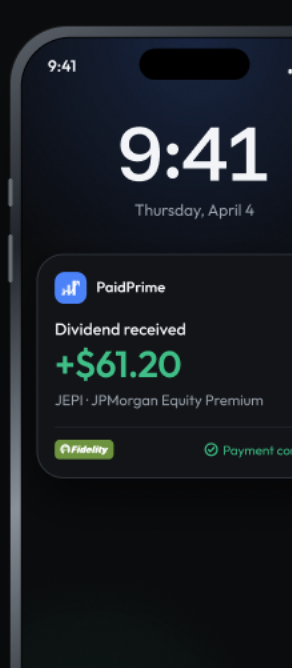
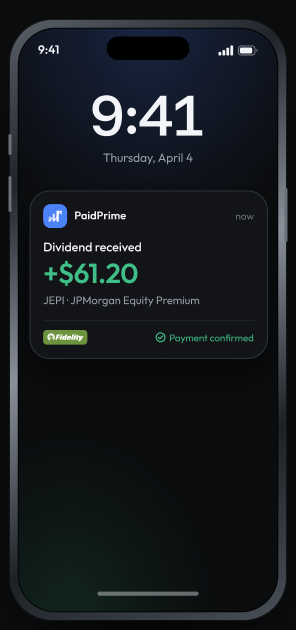
feat: add ProductSection to homepage; update NotificationTemplatesSection styles and image assets for improved layout and responsiveness

Changed region(s): [[0.0, 0.0302, 1.0, 1.0], [0.4623, 0.3016, 0.863, 0.3619], [0.1233, 0.573, 0.1541, 0.6937]]

diff --git a/components/marketing/product-section.tsx b/components/marketing/product-section.tsx
@@ -1,0 +1,130 @@
+import { Reveal } from "@/components/marketing/reveal";
+
+const FEATURES = [
+  {
+    label: "Portfolio Performance",
+    icon: "/marketing/product/icon-portfolio-performance.svg",
+    active: true,
+  },
+  {
+    label: "Passive Income Tracking",
+    icon: "/marketing/product/icon-passive-income.svg",
+  },
+  {
+    label: "Portfolio Allocation",
+    icon: "/marketing/product/icon-portfolio-allocation.svg",
+  },
+  {
+    label: "Sector Allocation",
+    icon: "/marketing/product/icon-sector-allocation.svg",
+  },
+  {
+    label: "Financial Freedom Goals",
+    icon: "/marketing/product/icon-freedom-goals.svg",
+  },
+  {
+    label: "Smart Watchlists",
+    icon: "/marketing/product/icon-watchlists.svg",
+  },
+  {
+    label: "AI Advisor",
+    icon: "/marketing/product/icon-ai-advisor.svg",
+  },
+  {
+    label: "Dividend Calendar",
+    icon: "/marketing/product/icon-calendar.svg",
+  },
+  {
+    label: "Real-Time Alerts",
+    icon: "/marketing/product/icon-alerts.svg",
+  },
+] as const;
+
+/**
+ * Figma Homepage section 1:752 — Product / investment dashboard (1440 × 1038.54).
+ * Shell matches header/templates: 1440 → px-60 → 1320 → px-12 (content at 108).
+ * Desktop ≥1200 = Figma; tablet/mobile = judgment.
+ */
+export function ProductSection() {
+  return (
+    <section
+      id="product"
+      className="relative border-b border-[#22262c] bg-[#0b0c0e]"
+      aria-labelledby="product-heading"
+    >
+      <div className="mx-auto box-border flex w-full max-w-[1440px] flex-col px-4 py-14 sm:px-8 sm:py-16 min-[1200px]:px-[60px] min-[1200px]:py-20">
+        <div className="mx-auto flex w-full max-w-[1320px] flex-col gap-8 min-[1200px]:gap-10 min-[1200px]:px-12">
+          <Reveal className="flex w-full max-w-[720px] flex-col items-start gap-4 min-[1200px]:gap-[15.1px]">
+            <div className="inline-flex items-center gap-2.5 rounded-full border border-[#2e343b] bg-[#16191d] px-[15.8px] pt-[7.2px] pb-[7.8px] text-[13px] font-medium leading-[21.45px] tracking-[2.08px] text-[#4c82f7] uppercase">
+              <span className="size-1.5 shrink-0 rounded-full bg-[#4c82f7]" aria-hidden />
+              Product
+            </div>
+
+            <h2
+              id="product-heading"
+              className="pp-display m-0 w-full text-[clamp(30px,6vw,60.5px)] font-semibold leading-[1.08] tracking-[-0.04em] text-[#f2f4f7] min-[1200px]:text-[60.5px] min-[1200px]:leading-[63.5px] min-[1200px]:tracking-[-2.298px]"
+            >
+              Your complete investment{" "}
+              <br className="hidden min-[1200px]:block" />
+              dashboard
+            </h2>
+
+            <p className="m-0 max-w-[640px] text-[17px] leading-[1.55] font-normal text-[#99a1ac] sm:text-[20px] min-[1200px]:text-[24px] min-[1200px]:leading-[38px]">
+              Every number you need to track passive income, from portfolio value to your
+              next confirmed payment.
+            </p>
+          </Reveal>
+
+          {/* Dashboard + feature list share one row; list stretches to dashboard height */}
+          <Reveal
+            delayMs={80}
+            className="flex w-full flex-col gap-6 min-[1200px]:flex-row min-[1200px]:items-stretch min-[1200px]:justify-between min-[1200px]:gap-6"
+          >
+            <div className="relative w-full min-w-0 overflow-hidden rounded-[18px] border border-[#2e343b] bg-[#121417] shadow-[0px_40px_90px_-30px_rgba(0,0,0,0.75)] min-[1200px]:w-[841px] min-[1200px]:shrink-0">
+              {/* eslint-disable-next-line @next/next/no-img-element */}
+              <img
+                src="/marketing/product/dashboard.png"
+                alt="PaidPrime investment dashboard showing portfolio value, income, and performance charts"
+                width={842}
+                height={653}
+                className="block h-auto w-full select-none"
+                draggable={false}
+              />
+            </div>
+
+            <ul className="m-0 flex w-full list-none flex-col overflow-hidden rounded-[18px] border border-[#2e343b] p-0 min-[1200px]:w-[358px] min-[1200px]:shrink-0 min-[1200px]:self-stretch">
+              {FEATURES.map((feature, index) => (
+                <li
+                  key={feature.label}
+                  className={`flex min-h-0 flex-1 items-center gap-3 bg-[#121417] px-4 py-3.5 min-[1200px]:py-0 ${
+                    index < FEATURES.length - 1 ? "border-b border-[#22262c]" : ""
+                  }`}
+                >
+                  <div
+                    className={`flex size-9 shrink-0 items-center justify-center rounded-[10px] border ${
+                      feature.active
+                        ? "border-[rgba(76,130,247,0.45)] bg-[#16233d]"
+                        : "border-[#2e343b] bg-[#16191d]"
+                    }`}
+                  >
+                    {/* eslint-disable-next-line @next/next/no-img-element */}
+                    <img
+                      src={feature.icon}
+                      alt=""
+                      width={16}
+                      height={16}
+                      className="size-4"
+                    />
+                  </div>
+                  <span className="text-[15px] leading-[22.28px] font-medium text-[#f2f4f7] min-[1200px]:text-[16px]">
+                    {feature.label}
+                  </span>
+                </li>
+              ))}
+            </ul>
+          </Reveal>
+        </div>
+      </div>
+    </section>
+  );
+}

diff --git a/components/marketing/notification-templates-section.tsx b/components/marketing/notification-templates-section.tsx
@@ -23,16 +23,15 @@ const TEMPLATES = [
 
 /**
  * Figma Homepage section 1:509 — Notification templates (1440 × 1296.95).
- * Phones: 276×600, columns 280, gap 136, header→phones 64, phone→title 32.
  */
 export function NotificationTemplatesSection() {
   return (
     <section
-      id="product"
+      id="notification-templates"
       className="relative border-b border-[#22262c] bg-[#0b0c0e]"
       aria-labelledby="templates-heading"
     >
-      <div className="mx-auto box-border flex w-full max-w-[1440px] flex-col items-center gap-10 px-4 py-14 sm:gap-12 sm:px-8 sm:py-16 min-[1200px]:gap-16 min-[1200px]:px-[60px] min-[1200px]:py-[128px]">
+      <div className="mx-auto box-border flex w-full max-w-[1440px] flex-col items-center gap-10 px-4 py-14 sm:gap-12 sm:px-8 sm:py-16 min-[1200px]:gap-16 min-[1200px]:px-[60px] min-[1200px]:pt-[128px] min-[1200px]:pb-16">
         <Reveal className="mx-auto flex w-full max-w-[860px] flex-col items-center gap-4 text-center sm:gap-5 min-[1200px]:gap-[23.3px]">
           <div className="inline-flex max-w-full items-center gap-2 rounded-full border border-[#2e343b] bg-[#16191d] px-3.5 py-1.5 text-[11px] font-medium leading-snug tracking-[1.6px] text-[#4c82f7] uppercase sm:gap-2.5 sm:px-[15.8px] sm:pt-[7.2px] sm:pb-[7.8px] sm:text-[13px] sm:leading-[21.45px] sm:tracking-[2.08px]">
             <span className="size-1.5 shrink-0 rounded-full bg-[#4c82f7]" aria-hidden />
@@ -54,25 +53,25 @@ export function NotificationTemplatesSection() {
         </Reveal>
 
         <Reveal delayMs={80} className="mx-auto w-full max-w-[1320px]">
-          <ul className="m-0 mx-auto flex list-none flex-col items-center gap-12 p-0 sm:gap-14 min-[1200px]:w-full min-[1200px]:flex-row min-[1200px]:items-start min-[1200px]:justify-center min-[1200px]:gap-[220px]">
+          <ul className="m-0 mx-auto flex list-none flex-col items-center gap-12 p-0 sm:gap-14 min-[1200px]:w-full min-[1200px]:flex-row min-[1200px]:items-start min-[1200px]:justify-center min-[1200px]:gap-[180px]">
             {TEMPLATES.map((template) => (
               <li
                 key={template.title}
-                className="flex w-full max-w-[300px] flex-col items-center min-[1200px]:w-[290px] min-[1200px]:max-w-[290px] min-[1200px]:shrink-0"
+                className="flex w-full max-w-[300px] flex-col items-center min-[1200px]:w-[280px] min-[1200px]:max-w-[280px] min-[1200px]:shrink-0"
               >
-                <div className="relative w-[min(280px,85vw)] shrink-0 overflow-visible min-[1200px]:w-[280px]">
+                <div className="relative w-[min(276px,85vw)] shrink-0 min-[1200px]:w-[276px]">
                   {/* eslint-disable-next-line @next/next/no-img-element */}
                   <img
-                    src={`${template.phone}?v=7`}
+                    src={`${template.phone}?v=9`}
                     alt={template.phoneAlt}
-                    width={292}
-                    height={668}
-                    className="pointer-events-none block h-auto w-full select-none"
+                    width={296}
+                    height={630}
+                    className="pointer-events-none block h-auto w-full select-none shadow-[0px_40px_90px_-30px_rgba(0,0,0,0.85)]"
                     draggable={false}
                   />
                 </div>
 
-                <h3 className="pp-display m-0 pt-6 text-center text-[22px] leading-[36.3px] font-semibold tracking-[-0.44px] text-[#f2f4f7]">
+                <h3 className="pp-display m-0 pt-8 text-center text-[22px] leading-[36.3px] font-semibold tracking-[-0.44px] text-[#f2f4f7]">
                   {template.title}
                 </h3>
 

diff --git a/app/page.tsx b/app/page.tsx
@@ -2,6 +2,7 @@ import { BrokerConnectionsSection } from "@/components/marketing/broker-connecti
 import { DividendAlertsSection } from "@/components/marketing/dividend-alerts-section";
 import { HeroSection } from "@/components/marketing/hero-section";
 import { NotificationTemplatesSection } from "@/components/marketing/notification-templates-section";
+import { ProductSection } from "@/components/marketing/product-section";
 import { SiteHeader } from "@/components/marketing/site-header";
 
 export default function HomePage() {
@@ -14,6 +15,7 @@ export default function HomePage() {
         Section 1:347 = 977.64px (broker connections)
         Section 1:411 = 1063.04px (dividend alerts)
         Section 1:509 = 1296.95px (notification templates)
+        Section 1:752 = 1038.54px (product dashboard)
       */}
       <SiteHeader />
       <main>
@@ -21,6 +23,7 @@ export default function HomePage() {
         <BrokerConnectionsSection />
         <DividendAlertsSection />
         <NotificationTemplatesSection />
+        <ProductSection />
       </main>
     </div>
   );
